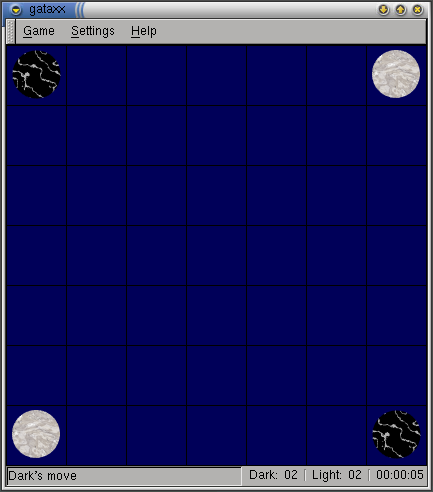
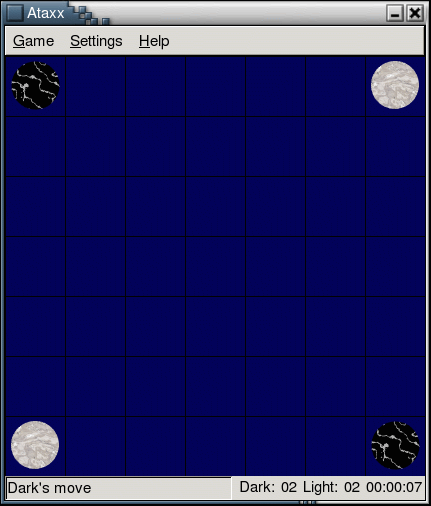
The animation in gataxx doesn't suck anymore. Well, it sucks a lot, lot less.

Changed region(s): [[0.0, 0.0, 1.0, 1.0]]

diff --git a/gataxx/gataxx.c b/gataxx/gataxx.c
@@ -560,14 +560,14 @@ gui_draw_pixmap (gint which, gint x, gint y)
   gdk_draw_drawable (drawing_area->window,
                      drawing_area->style->fg_gc[GTK_WIDGET_STATE (drawing_area)],
                      tiles_pixmap,
-                     (which % 7) * TILEWIDTH, (which / 7) * TILEHEIGHT,
+                     (which % 8) * TILEWIDTH, (which / 8) * TILEHEIGHT,
                      x * TILEWIDTH, y * TILEHEIGHT,
                      TILEWIDTH, TILEHEIGHT);
 
   gdk_draw_drawable (buffer_pixmap,
                      drawing_area->style->fg_gc[GTK_WIDGET_STATE (drawing_area)],
-                     tiles_pixmap, (which % 7) * TILEWIDTH,
-                     (which / 7) * TILEHEIGHT, x * TILEWIDTH,
+                     tiles_pixmap, (which % 8) * TILEWIDTH,
+                     (which / 8) * TILEHEIGHT, x * TILEWIDTH,
                      y * TILEHEIGHT, TILEWIDTH, TILEHEIGHT);
 
   gdk_draw_line (drawing_area->window, window->style->black_gc,
@@ -592,7 +592,7 @@ gui_draw_pixmap_buffer (gint which, gint x, gint y)
   gdk_draw_drawable (buffer_pixmap,
                      drawing_area->style->fg_gc[GTK_WIDGET_STATE(drawing_area)],
                      tiles_pixmap,
-                     (which % 7) * TILEWIDTH, (which / 7) * TILEHEIGHT,
+                     (which % 8) * TILEWIDTH, (which / 8) * TILEHEIGHT,
                      x * TILEWIDTH, y * TILEHEIGHT, TILEWIDTH, TILEHEIGHT);
 }
 
@@ -636,49 +636,31 @@ flip_pixmaps (gpointer data)
 	pixmaps[i][j] = 101;
 	gui_draw_pixmap(0, i, j);
 	flipped_tiles = 1;
-      } else if (pixmaps[i][j] < board[i][j]) {
+      } else if (pixmaps[i][j] < board[i][j]) { /* Black -> White */
 	if (animate == 0) {
 	  if (pixmaps[i][j] == BLACK_TURN)
 	    pixmaps[i][j] = board[i][j];
 	  else
 	    pixmaps[i][j]++;
 	} else if (animate == 1) {
-	  if (pixmaps[i][j] < 1)
-	    pixmaps[i][j] += 2;
-	  else if (pixmaps[i][j] >= 1 && pixmaps[i][j] < 8)
-	    pixmaps[i][j] = 8;
-	  else if (pixmaps[i][j] >= 8 && pixmaps[i][j] < 16)
-	    pixmaps[i][j] = 16;
-	  else if (pixmaps[i][j] >= 14 && pixmaps[i][j] < 23)
-	    pixmaps[i][j] = 23;
-	  else if (pixmaps[i][j] >= 23 && pixmaps[i][j] < 31)
-	    pixmaps[i][j] = 31;
-	  else if (pixmaps[i][j] > 31)
-	    pixmaps[i][j] = 31;
+          pixmaps[i][j] += 8;
+          if (pixmaps[i][j] > 31)
+            pixmaps[i][j] = 31;
 	} else if (animate == 2)
 	  pixmaps[i][j]++;
 	if (pixmaps[i][j] > 0)
 	  gui_draw_pixmap(pixmaps[i][j], i, j);
 	flipped_tiles = 1;
-      } else if (pixmaps[i][j] > board[i][j] && pixmaps[i][j] != 101) {
+      } else if (pixmaps[i][j] > board[i][j] && pixmaps[i][j] != 101) { /* White -> Black */
 	if (animate == 0) {
 	  if (pixmaps[i][j] == WHITE_TURN)
 	    pixmaps[i][j] = board[i][j];
 	  else
 	    pixmaps[i][j]--;
 	} else if (animate == 1) {
-	  if (pixmaps[i][j] > 31)
-	    pixmaps[i][j] -= 2;
-	  else if (pixmaps[i][j] <= 31 && pixmaps[i][j] > 23)
-	    pixmaps[i][j] = 23;
-	  else if (pixmaps[i][j] <= 23 && pixmaps[i][j] > 16)
-	    pixmaps[i][j] = 16;
-	  else if (pixmaps[i][j] <= 16 && pixmaps[i][j] > 8)
-	    pixmaps[i][j] = 8;
-	  else if (pixmaps[i][j] <= 8 && pixmaps[i][j] > 1)
-	    pixmaps[i][j] = 1;
-	  else if (pixmaps[i][j] < 1)
-	    pixmaps[i][j] = 1;
+          pixmaps[i][j] -= 8;
+          if (pixmaps[i][j] < 1)
+            pixmaps[i][j] = 1;
 	} else if (animate == 2)
 	  pixmaps[i][j]--;
 	if (pixmaps[i][j] < 32)

diff --git a/gataxx/properties.c b/gataxx/properties.c
@@ -85,7 +85,9 @@ load_properties (void)
 		computer_speed = COMPUTER_MOVE_DELAY;
 	}
 	flip_final = gataxx_gconf_get_bool ("/apps/gataxx/flipfinal", TRUE);
-	
+
+	if (flip_pixmaps_id)
+		g_source_remove (flip_pixmaps_id);
 	switch (animate) {
 		case 0:
 			flip_pixmaps_id = g_timeout_add (100, flip_pixmaps, NULL);

diff --git a/gataxx/gataxx.h b/gataxx/gataxx.h
@@ -24,7 +24,7 @@
 #define _GATAXX_H_
 
 #define BLACK_TURN 1
-#define WHITE_TURN 27
+#define WHITE_TURN 31
 #define PIXMAP_FLIP_DELAY 20
 #define PIXMAP_STAGGER_DELAY 3
 #define COMPUTER_MOVE_DELAY 1200
